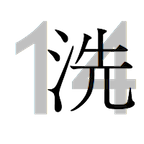
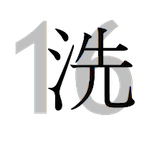
new header images

Changed region(s): [[0.3056, 0.1399, 0.9444, 0.8112], [0.3611, 0.1958, 0.5, 0.3077], [0.3056, 0.3357, 0.4444, 0.4476]]

diff --git a/twentysixteen-xili/functions.php b/twentysixteen-xili/functions.php
@@ -31,7 +31,7 @@ function twentysixteen_xilidev_setup () {
 		// Args dedicated to this theme named Twenty Fifteen
 		$xili_args = array (
 			'customize_clone_widget_containers' => true, // comment or set to true to clone widget containers
-			'settings_name' => 'xili_2015_theme_options', // name of array saved in options table
+			'settings_name' => 'xili_2016_theme_options', // name of array saved in options table
 			'theme_name' => 'Twenty Sixteen',
 			'theme_domain' => $theme_domain,
 			'child_version' => TWENTYSIXTEEN_XILI_VER
@@ -160,6 +160,107 @@ function twentysixteen_xili_add_widgets () {
 	register_widget( 'xili_Widget_Categories' ); // in xili-language-widgets.php since 2.16.3
 }
 
+
+
+function twentysixteen_xili_header_image () {
+
+	$header_image_url = get_header_image();
+
+	$text_color = get_header_textcolor();
+
+	// If no custom options for text are set, let's bail.
+	if ( empty( $header_image_url ) )
+		return;
+
+	// If we get this far, we have custom styles.
+
+		if ( ! empty( $header_image_url ) ) :
+			$header_image_width = get_custom_header()->width; // default values
+			$header_image_height = get_custom_header()->height;
+			if ( class_exists ( 'xili_language' ) ) {
+				$xili_theme_options = get_theme_xili_options() ;
+				if ( isset ( $xili_theme_options['xl_header'] ) && $xili_theme_options['xl_header'] ) {
+				global $xili_language, $xili_language_theme_options ;
+				// check if image exists in current language
+				// 2013-10-10 - Tiago suggestion
+				$curlangslug = ( '' == the_curlang() ) ? strtolower( $xili_language->default_lang ) : the_curlang() ;
+
+
+					$headers = get_uploaded_header_images(); // search in uploaded header list
+
+					$this_default_headers = $xili_language_theme_options->get_processed_default_headers () ;
+					if ( ! empty( $this_default_headers ) ) {
+						$headers = array_merge( $this_default_headers, $headers );
+					}
+					foreach ( $headers as $header_key => $header ) {
+
+						if ( isset ( $xili_theme_options['xl_header_list'][$curlangslug] ) && $header_key == $xili_theme_options['xl_header_list'][$curlangslug] ) {
+							$header_image_url = $header['url'];
+
+							$header_image_width = ( isset($header['width']) ) ? $header['width']: get_custom_header()->width;
+							$header_image_height = ( isset($header['height']) ) ? $header['height']: get_custom_header()->height; // not in default (but in uploaded)
+
+							break ;
+						}
+					}
+				}
+			}
+	?>
+
+	<div class="header-image">
+		<a href="<?php echo esc_url( home_url( '/' ) ); ?>" rel="home">
+			<img src="<?php echo $header_image_url; ?>" width="<?php echo esc_attr($header_image_width); ?>" height="<?php echo esc_attr($header_image_height); ?>" alt="<?php echo esc_attr( get_bloginfo( 'name', 'display' ) ); ?>" />
+		</a>
+	</div>
+
+	<?php endif;
+}
+
+function twentysixteen_xilidev_setup_custom_header () {
+
+	// %2$s = in child
+	//
+
+	register_default_headers( array(
+		'xili2016' => array(
+
+			'url'			=> '%2$s/images/headers/xili2016-h1.jpg',
+			'thumbnail_url' => '%2$s/images/headers/xili2016-h1-thumb.jpg',
+			/* translators: added in child functions by xili */
+			'description'	=> _x( '2016 by xili', 'header image description', 'twentysixteen' )
+			),
+		'xili2016-2' => array(
+
+			'url'			=> '%2$s/images/headers/xili2016-h2.jpg',
+			'thumbnail_url' => '%2$s/images/headers/xili2016-h2-thumb.jpg',
+			/* translators: added in child functions by xili */
+			'description'	=> _x( '2016.2 by xili', 'header image description', 'twentysixteen' )
+			)
+		)
+	);
+
+	$args = array(
+		// Text color and image (empty to use none).
+		'default-text-color'	=> 'fffff0', // diff of parent
+		'default-image'			=> '%2$s/images/headers/xili2016-h1.jpg',
+
+		// Set height and width, with a maximum value for the width.
+		'height'				=> 280,
+		'width'					=> 1200,
+
+		// Callbacks for styling the header and the admin preview.
+		'wp-head-callback'			=> 'twentysixteen_header_style',
+		'admin-head-callback'		=> 'twentysixteen_admin_header_style',
+		'admin-preview-callback'	=> 'twentysixteen_admin_header_image',
+	);
+
+	add_theme_support( 'custom-header', $args ); // need 8 in add_action to overhide parent
+
+}
+add_action( 'after_setup_theme', 'twentysixteen_xilidev_setup_custom_header', 12 ); // 12 - child translation is active
+
+
+
 function twentysixteen_xili_credits () {
 	/* translators: added in child functions by xili */
 	printf( __( 'Multilingual child theme of Twenty Sixteen by %1$s and %2$s', 'twentysixteen' ),
@@ -179,6 +280,26 @@ add_action ('twentysixteen_credits', 'twentysixteen_xili_credits');
  * @since
  */
 require get_stylesheet_directory() . '/inc/customizer.php';
+
+/**
+ * test if JSON REST QUERY and dont insert lang tag after root url (permalinks class ) in wp_json links
+ *
+ */
+function xili_ccf_dont_insert_lang_tag_root ( $false, $url, $path, $orig_scheme, $blog_id ){
+	global $wp_query;
+		if ( isset( $wp_query->query_vars['post_type']) &&  $wp_query->query_vars['post_type'] == 'ccf_form' ) return true; // no insertion
+		/*
+		if ( is_admin() ) {
+			$screen = get_current_screen();
+			error_log( '------+++------- ' . serialize($wp_query->query_vars));
+			if ( $screen &&  $screen->base == "post") return true;
+		}
+		if ( isset( $wp_query->query_vars['json_route']) ) return true; // no insertion
+		*/
+		//error_log( $path . ' ----- ' . $url);
+		return $false;
+}
+add_filter('xili_json_dont_insert_lang_tag_root', 'xili_ccf_dont_insert_lang_tag_root', 10, 5 ); // filter since XL 2.16.6
 
 
 ?>

diff --git a/twentysixteen-xili/header.php b/twentysixteen-xili/header.php
@@ -1,0 +1,85 @@
+<?php
+/**
+ * The header for our theme.
+ *
+ * Displays all of the head element and everything up until the "site-content" div.
+ *
+ * @package WordPress
+ * @subpackage Twenty_Sixteen
+ * @since Twenty Sixteen 1.0
+ */
+?><!DOCTYPE html>
+<html <?php language_attributes(); ?> class="no-js">
+<head>
+	<meta charset="<?php bloginfo( 'charset' ); ?>">
+	<?php global $is_safari; // xili
+if ( $is_safari && stripos($_SERVER['HTTP_USER_AGENT'], 'iPad') !== false) {
+	?><meta name="viewport" content="width=1024" /><?php
+} else {
+	?><meta name="viewport" content="width=device-width, initial-scale=1" /><?php
+}?>
+
+	<link rel="profile" href="http://gmpg.org/xfn/11">
+	<?php if ( is_singular() && pings_open( get_queried_object() ) ): ?>
+	<link rel="pingback" href="<?php bloginfo( 'pingback_url' ); ?>">
+	<?php endif; ?>
+	<?php wp_head(); ?>
+</head>
+
+<body <?php body_class(); ?>>
+<div id="page" class="hfeed site">
+	<div class="site-inner">
+		<a class="skip-link screen-reader-text" href="#content"><?php _e( 'Skip to content', 'twentysixteen' ); ?></a>
+
+		<header id="masthead" class="site-header" role="banner">
+			<div class="site-header-main">
+				<div class="site-branding">
+					<?php if ( is_front_page() && is_home() ) : ?>
+						<h1 class="site-title"><a href="<?php echo esc_url( home_url( '/' ) ); ?>" rel="home"><?php bloginfo( 'name' ); ?></a></h1>
+					<?php else : ?>
+						<p class="site-title"><a href="<?php echo esc_url( home_url( '/' ) ); ?>" rel="home"><?php bloginfo( 'name' ); ?></a></p>
+					<?php endif;
+
+					$description = get_bloginfo( 'description', 'display' );
+					if ( $description || is_customize_preview() ) : ?>
+						<p class="site-description"><?php echo $description; ?></p>
+					<?php endif; ?>
+				</div><!-- .site-branding -->
+
+				<?php if ( has_nav_menu( 'primary' ) || has_nav_menu( 'social' ) ) : ?>
+					<button id="menu-toggle" class="menu-toggle"><?php _e( 'Menu', 'twentysixteen' ); ?></button>
+
+					<div id="site-header-menu" class="site-header-menu">
+						<?php if ( has_nav_menu( 'primary' ) ) : ?>
+							<nav id="site-navigation" class="main-navigation" role="navigation" aria-label='<?php _e( 'Primary Menu', 'twentysixteen' ); ?>'>
+								<?php
+									wp_nav_menu( array(
+										'theme_location' => 'primary',
+										'menu_class'     => 'primary-menu',
+									 ) );
+								?>
+							</nav><!-- .main-navigation -->
+						<?php endif; ?>
+
+						<?php if ( has_nav_menu( 'social' ) ) : ?>
+							<nav id="social-navigation" class="social-navigation" role="navigation" aria-label='<?php _e( 'Social Links Menu', 'twentysixteen' ); ?>'>
+								<?php
+									wp_nav_menu( array(
+										'theme_location' => 'social',
+										'menu_class'     => 'social-links-menu',
+										'depth'          => 1,
+										'link_before'    => '<span class="screen-reader-text">',
+										'link_after'     => '</span>',
+									) );
+								?>
+							</nav><!-- .social-navigation -->
+						<?php endif; ?>
+					</div><!-- .site-header-menu -->
+				<?php endif; ?>
+			</div><!-- .site-header-main -->
+
+			<?php twentysixteen_xili_header_image (); // one banner per language - xili 1.6?>
+
+		</header><!-- .site-header -->
+
+		<div id="content" class="site-content">
